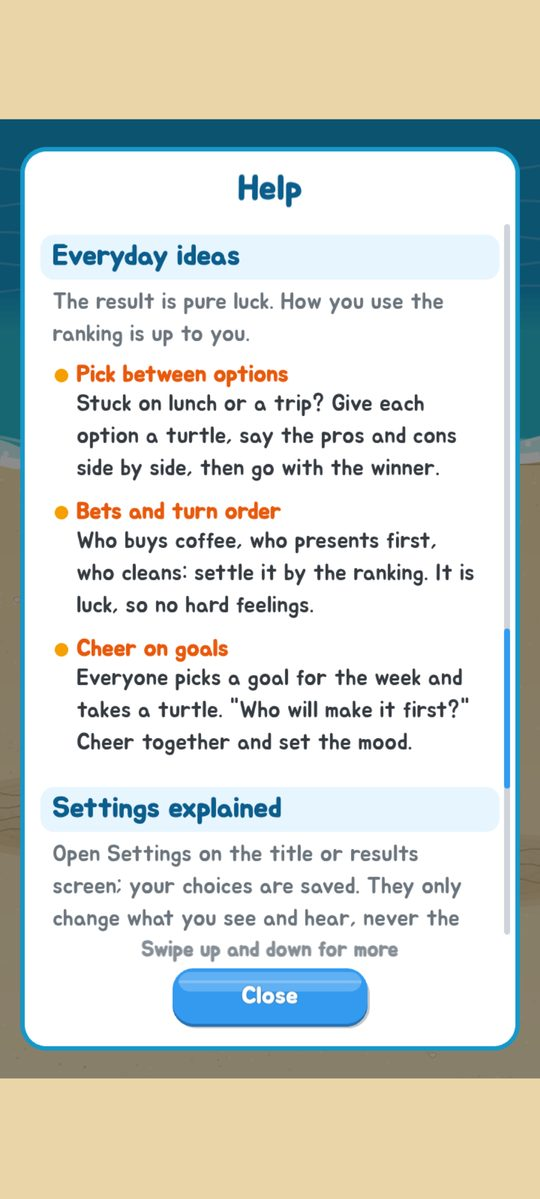
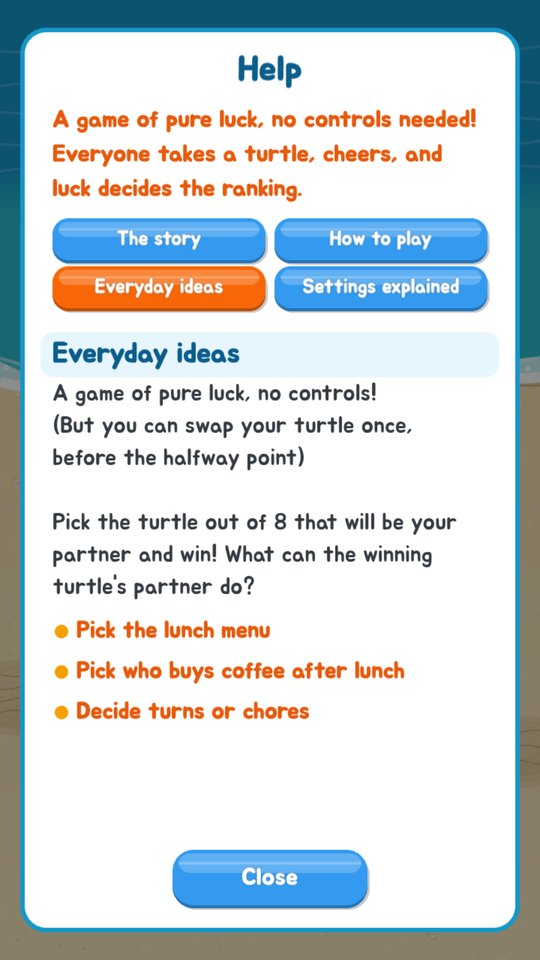
Update screenshots to v47 (ko/en)

diff --git a/en/index.html b/en/index.html
@@ -14,12 +14,12 @@
 <meta property="og:title" content="Sandscram – 15-second luck race to pick who goes first (2–8 players)">
 <meta property="og:description" content="A 15-second luck race for 2–8 players on one phone. Each player takes a sea turtle hatchling and cheers. Pick lunch, share out chores, decide turn order.">
 <meta property="og:url" content="https://tarsumae.github.io/sandscram/en/">
-<meta property="og:image" content="https://tarsumae.github.io/sandscram/img/og-image.jpg">
+<meta property="og:image" content="https://tarsumae.github.io/sandscram/img/og-image-en.jpg">
 <meta property="og:image:width" content="1200"><meta property="og:image:height" content="630">
-<meta property="og:image:alt" content="Six sea turtle hatchlings leaving tracks in the sand as they race to the sea while gulls and a crab hunt them">
+<meta property="og:image:alt" content="Eight sea turtle hatchlings leaving tracks in the sand as they race to the sea while a gull and a crab hunt them">
 <meta property="og:locale" content="en_US"><meta property="og:locale:alternate" content="ko_KR">
 <meta name="twitter:card" content="summary_large_image">
-<link rel="icon" href="../img/og-image.jpg">
+<link rel="icon" href="../img/og-image-en.jpg">
 <style>body{margin:0;font-family:system-ui,-apple-system,'Noto Sans KR',sans-serif;line-height:1.6;color:#1d2a33;background:#fdf6e7}
 header{background:#29b7cf;color:#fff;padding:32px 20px;text-align:center}header h1{margin:0 0 4px;font-size:2rem}
 main{max-width:760px;margin:0 auto;padding:8px 20px 40px}h2{margin-top:2em;border-bottom:2px solid #e8d9b5}
@@ -47,11 +47,12 @@ dt{font-weight:700;margin-top:1em}dd{margin:0.3em 0 0}footer{text-align:center;f
   "ko",
   "en"
  ],
- "image": "https://tarsumae.github.io/sandscram/img/og-image.jpg",
+ "image": "https://tarsumae.github.io/sandscram/img/og-image-en.jpg",
  "screenshot": [
-  "https://tarsumae.github.io/sandscram/img/race.jpg",
-  "https://tarsumae.github.io/sandscram/img/uses-en.jpg",
-  "https://tarsumae.github.io/sandscram/img/results-ko.jpg"
+  "https://tarsumae.github.io/sandscram/img/title-en.jpg",
+  "https://tarsumae.github.io/sandscram/img/race-en.jpg",
+  "https://tarsumae.github.io/sandscram/img/results-en.jpg",
+  "https://tarsumae.github.io/sandscram/img/uses-en.jpg"
  ],
  "applicationCategory": "GameApplication",
  "applicationSubCategory": "Party game",
@@ -77,7 +78,7 @@ dt{font-weight:700;margin-top:1em}dd{margin:0.3em 0 0}footer{text-align:center;f
   "@type": "Person",
   "name": "Sandscram"
  },
- "dateModified": "2026-11-12"
+ "dateModified": "2026-11-13"
 }
 </script>
 <script type="application/ld+json">
@@ -213,7 +214,7 @@ dt{font-weight:700;margin-top:1em}dd{margin:0.3em 0 0}footer{text-align:center;f
 <main>
 <p>Sandscram is a luck-based party game for 2 to 8 people sharing one phone. Sea turtle hatchlings leave one nest together and dash for the sea while animal predators (gulls and crabs) and deep-rushing waves reshuffle the ranking. There are no controls: each player takes a turtle and cheers, and once per race anyone can use the &#x27;Pause! Swap?&#x27; button to pause. A race takes about 15 seconds on average, which makes it a quick way to pick lunch, share out chores or decide who presents first. It is inspired by Darwin&#x27;s natural selection, but luck decides the result, and starting positions are balanced so no lane has an advantage. It runs offline and is available in Korean and English.</p>
 <h2>Screenshots</h2>
-<div class="shots"><img src="../img/race.jpg" alt="Six sea turtle hatchlings leaving tracks in the sand as they race to the sea while gulls and a crab hunt them" width="540" loading="lazy"><img src="../img/uses-en.jpg" alt="In-game help showing everyday ideas" width="540" loading="lazy"><img src="../img/results-ko.jpg" alt="Results screen with finishing order and a shared rank (Korean UI)" width="540" loading="lazy"></div>
+<div class="shots"><img src="../img/title-en.jpg" alt="Sandscram title screen" width="540" loading="lazy"><img src="../img/race-en.jpg" alt="Eight sea turtle hatchlings leaving tracks in the sand as they race to the sea while a gull and a crab hunt them" width="540" loading="lazy"><img src="../img/results-en.jpg" alt="Results screen with finishing order for eight turtles and a tied first place" width="540" loading="lazy"><img src="../img/uses-en.jpg" alt="In-game help showing everyday ideas" width="540" loading="lazy"></div>
 <h2>How to play</h2>
 <ol><li>Tap Start and choose how many turtles race (2 to 8).</li><li>Each player takes one turtle.</li><li>After the countdown the turtles leave the nest together and run to the sea. No controls, just cheer!</li><li>Once per race, until the leader is halfway across the sand, anyone can use the &#x27;Pause! Swap?&#x27; button to pause.</li><li>The earlier a turtle reaches the sea, the higher it ranks; caught turtles go to the bottom. Your group decides what the ranking is for.</li></ol>
 <h2>Ways to use it</h2>
@@ -223,6 +224,6 @@ dt{font-weight:700;margin-top:1em}dd{margin:0.3em 0 0}footer{text-align:center;f
 <h2>Animals in this game</h2>
 <p>Olive ridley sea turtle (Lepidochelys olivacea), ghost crab (genus Ocypode) and gulls (Laridae), drawn in a simple style inspired by real beach ecology.</p>
 </main>
-<footer>© 2026 Sandscram · <a href="../privacy.html">Privacy policy</a> · <a href="mailto:nowons@gmail.com">nowons@gmail.com</a><br>Last updated: <time datetime="2026-11-12">2026-11-12</time></footer>
+<footer>© 2026 Sandscram · <a href="../privacy.html">Privacy policy</a> · <a href="mailto:nowons@gmail.com">nowons@gmail.com</a><br>Last updated: <time datetime="2026-11-13">2026-11-13</time></footer>
 </body>
 </html>

diff --git a/index.html b/index.html
@@ -16,7 +16,7 @@
 <meta property="og:url" content="https://tarsumae.github.io/sandscram/">
 <meta property="og:image" content="https://tarsumae.github.io/sandscram/img/og-image.jpg">
 <meta property="og:image:width" content="1200"><meta property="og:image:height" content="630">
-<meta property="og:image:alt" content="바다거북 새끼 여섯 마리가 발자국을 남기며 바다로 달리고 갈매기와 게가 노리는 경주 화면">
+<meta property="og:image:alt" content="바다거북 새끼 여덟 마리가 발자국을 남기며 바다로 달리고 갈매기와 게가 노리는 경주 화면">
 <meta property="og:locale" content="ko_KR"><meta property="og:locale:alternate" content="en_US">
 <meta name="twitter:card" content="summary_large_image">
 <link rel="icon" href="img/og-image.jpg">
@@ -78,7 +78,7 @@ dt{font-weight:700;margin-top:1em}dd{margin:0.3em 0 0}footer{text-align:center;f
   "@type": "Person",
   "name": "Sandscram"
  },
- "dateModified": "2026-11-12"
+ "dateModified": "2026-11-13"
 }
 </script>
 <script type="application/ld+json">
@@ -214,7 +214,7 @@ dt{font-weight:700;margin-top:1em}dd{margin:0.3em 0 0}footer{text-align:center;f
 <main>
 <p>거북이 경주(영문 이름 Sandscram)는 2~8명이 휴대폰 한 대로 함께 하는 운에 맡기는 게임입니다. 한 둥지에서 함께 나온 바다거북 새끼들이 바다를 향해 같이 달리고, 갈매기와 게 같은 동물 천적, 깊이 밀려드는 파도가 순위를 바꿉니다. 조작은 없습니다. 참가자는 거북이를 한 마리씩 맡아 응원하고, 한 판에 한 번 &#x27;잠깐 멈추고! 바꿀래?&#x27; 버튼으로 경주를 잠시 멈출 수 있습니다. 한 판은 평균 15초 안팎이라 점심 메뉴 고르기, 당번 정하기, 발표 순서 정하기에 알맞습니다. 다윈의 자연선택에서 영감을 받았지만 결과는 운이 정하고, 출발 자리에 따른 유불리가 없도록 맞췄습니다. 인터넷 없이 실행되며 한국어와 영어를 지원합니다.</p>
 <h2>화면</h2>
-<div class="shots"><img src="img/title-ko.jpg" alt="거북이 경주 시작 화면" width="540" loading="lazy"><img src="img/race.jpg" alt="바다거북 새끼 여섯 마리가 발자국을 남기며 바다로 달리고 갈매기와 게가 노리는 경주 화면" width="540" loading="lazy"><img src="img/results-ko.jpg" alt="도착 순서와 공동 순위가 표시된 결과 화면" width="540" loading="lazy"><img src="img/uses-ko.jpg" alt="도움말의 생활 속 활용 예시 화면" width="540" loading="lazy"></div>
+<div class="shots"><img src="img/title-ko.jpg" alt="거북이 경주 시작 화면" width="540" loading="lazy"><img src="img/race.jpg" alt="바다거북 새끼 여덟 마리가 발자국을 남기며 바다로 달리고 갈매기와 게가 노리는 경주 화면" width="540" loading="lazy"><img src="img/results-ko.jpg" alt="여덟 마리의 도착 순서와 공동 1등이 표시된 결과 화면" width="540" loading="lazy"><img src="img/uses-ko.jpg" alt="도움말의 생활 속 활용 예시 화면" width="540" loading="lazy"></div>
 <h2>게임 방법</h2>
 <ol><li>시작하기를 누르고 거북이 수(2~8마리)를 골라요.</li><li>한 사람이 거북이 한 마리씩 맡아요.</li><li>카운트다운 뒤 한 둥지에서 함께 나온 거북이들이 바다로 같이 달려요. 조작은 없어요. 함께 응원해요!</li><li>한 판에 한 번, 선두가 모래사장 절반을 지나기 전까지 &#x27;잠깐 멈추고! 바꿀래?&#x27; 버튼으로 경주를 잠시 멈출 수 있어요.</li><li>바다에 먼저 닿을수록 높은 순위예요. 잡힌 거북이는 아래쪽이에요. 순위를 어디에 쓸지는 모인 사람들이 정해요.</li></ol>
 <h2>이럴 때 써 보세요</h2>
@@ -224,6 +224,6 @@ dt{font-weight:700;margin-top:1em}dd{margin:0.3em 0 0}footer{text-align:center;f
 <h2>등장 동물</h2>
 <p>올리브각시바다거북(Lepidochelys olivacea), 유령게(Ocypode 속), 갈매기류(Laridae). 실제 바닷가 생태에서 영감을 받아 간단히 표현했습니다.</p>
 </main>
-<footer>© 2026 Sandscram · <a href="privacy.html">개인정보처리방침</a> · <a href="mailto:nowons@gmail.com">nowons@gmail.com</a><br>마지막 수정: <time datetime="2026-11-12">2026-11-12</time></footer>
+<footer>© 2026 Sandscram · <a href="privacy.html">개인정보처리방침</a> · <a href="mailto:nowons@gmail.com">nowons@gmail.com</a><br>마지막 수정: <time datetime="2026-11-13">2026-11-13</time></footer>
 </body>
 </html>

diff --git a/en/support.html b/en/support.html
@@ -14,11 +14,11 @@
 <meta property="og:title" content="Support – Sandscram">
 <meta property="og:description" content="Support information for Sandscram (거북이 경주): personal tips and a contact for organization sponsors.">
 <meta property="og:url" content="https://tarsumae.github.io/sandscram/en/support.html">
-<meta property="og:image" content="https://tarsumae.github.io/sandscram/img/og-image.jpg">
+<meta property="og:image" content="https://tarsumae.github.io/sandscram/img/og-image-en.jpg">
 <meta property="og:image:width" content="1200"><meta property="og:image:height" content="630">
 <meta property="og:locale" content="en_US"><meta property="og:locale:alternate" content="ko_KR">
 <meta name="twitter:card" content="summary_large_image">
-<link rel="icon" href="../img/og-image.jpg">
+<link rel="icon" href="../img/og-image-en.jpg">
 <style>body{margin:0;font-family:system-ui,-apple-system,'Noto Sans KR',sans-serif;line-height:1.6;color:#1d2a33;background:#fdf6e7}
 header{background:#29b7cf;color:#fff;padding:32px 20px;text-align:center}header h1{margin:0 0 4px;font-size:2rem}
 main{max-width:760px;margin:0 auto;padding:8px 20px 40px}h2{margin-top:2em;border-bottom:2px solid #e8d9b5}
@@ -53,6 +53,6 @@ dt{font-weight:700;margin-top:1em}dd{margin:0.3em 0 0}footer{text-align:center;f
 <p>Companies and organizations can write about sponsorship by email.</p>
 <p>Contact: Sandscram · <a href="mailto:nowons@gmail.com">nowons@gmail.com</a></p>
 </main>
-<footer>© 2026 Sandscram · <a href="./">About the game</a> · <a href="../privacy.html">Privacy policy</a><br>Last updated: <time datetime="2026-11-12">2026-11-12</time></footer>
+<footer>© 2026 Sandscram · <a href="./">About the game</a> · <a href="../privacy.html">Privacy policy</a><br>Last updated: <time datetime="2026-11-13">2026-11-13</time></footer>
 </body>
 </html>

diff --git a/privacy.html b/privacy.html
@@ -10,8 +10,8 @@ dt{font-weight:700;margin-top:1em}dd{margin:0.3em 0 0}footer{text-align:center;f
 <p><strong>초안 — 출시 빌드에 광고·분석·충돌 보고 SDK를 넣으면 반드시 고쳐야 합니다.</strong></p>
 <h1>개인정보처리방침</h1>
 <p>거북이 경주(이하 '앱')은 개인정보를 수집하거나 외부로 보내지 않습니다. 언어, 거북이 수, 소리 크기 같은 설정은 사용자의 기기 안에만 저장되며, 앱을 지우면 함께 지워집니다. 결과 그림 공유는 사용자가 직접 고른 앱으로만 전달됩니다. 앱은 인터넷 연결 없이 동작하며, 아동을 포함한 누구의 개인정보도 수집하지 않습니다.</p>
-<p>문의: Sandscram · nowons@gmail.com · 시행일: 2026-11-12</p>
+<p>문의: Sandscram · nowons@gmail.com · 시행일: 2026-11-13</p>
 <h1 lang="en">Privacy Policy</h1>
 <p lang="en">Sandscram ("the app") does not collect personal data or send it anywhere. Settings such as language, number of turtles and sound volume are stored only on your device and are removed when you uninstall the app. A results picture is shared only to the app you choose. The app works offline and collects no personal data from anyone, including children.</p>
-<p lang="en">Contact: Sandscram · nowons@gmail.com · Effective: 2026-11-12</p>
+<p lang="en">Contact: Sandscram · nowons@gmail.com · Effective: 2026-11-13</p>
 </main></body></html>

diff --git a/support.html b/support.html
@@ -53,6 +53,6 @@ dt{font-weight:700;margin-top:1em}dd{margin:0.3em 0 0}footer{text-align:center;f
 <p>기업이나 단체의 스폰서 문의는 이메일로 받습니다.</p>
 <p>문의: Sandscram · <a href="mailto:nowons@gmail.com">nowons@gmail.com</a></p>
 </main>
-<footer>© 2026 Sandscram · <a href="index.html">소개 페이지</a> · <a href="privacy.html">개인정보처리방침</a><br>마지막 수정: <time datetime="2026-11-12">2026-11-12</time></footer>
+<footer>© 2026 Sandscram · <a href="index.html">소개 페이지</a> · <a href="privacy.html">개인정보처리방침</a><br>마지막 수정: <time datetime="2026-11-13">2026-11-13</time></footer>
 </body>
 </html>
